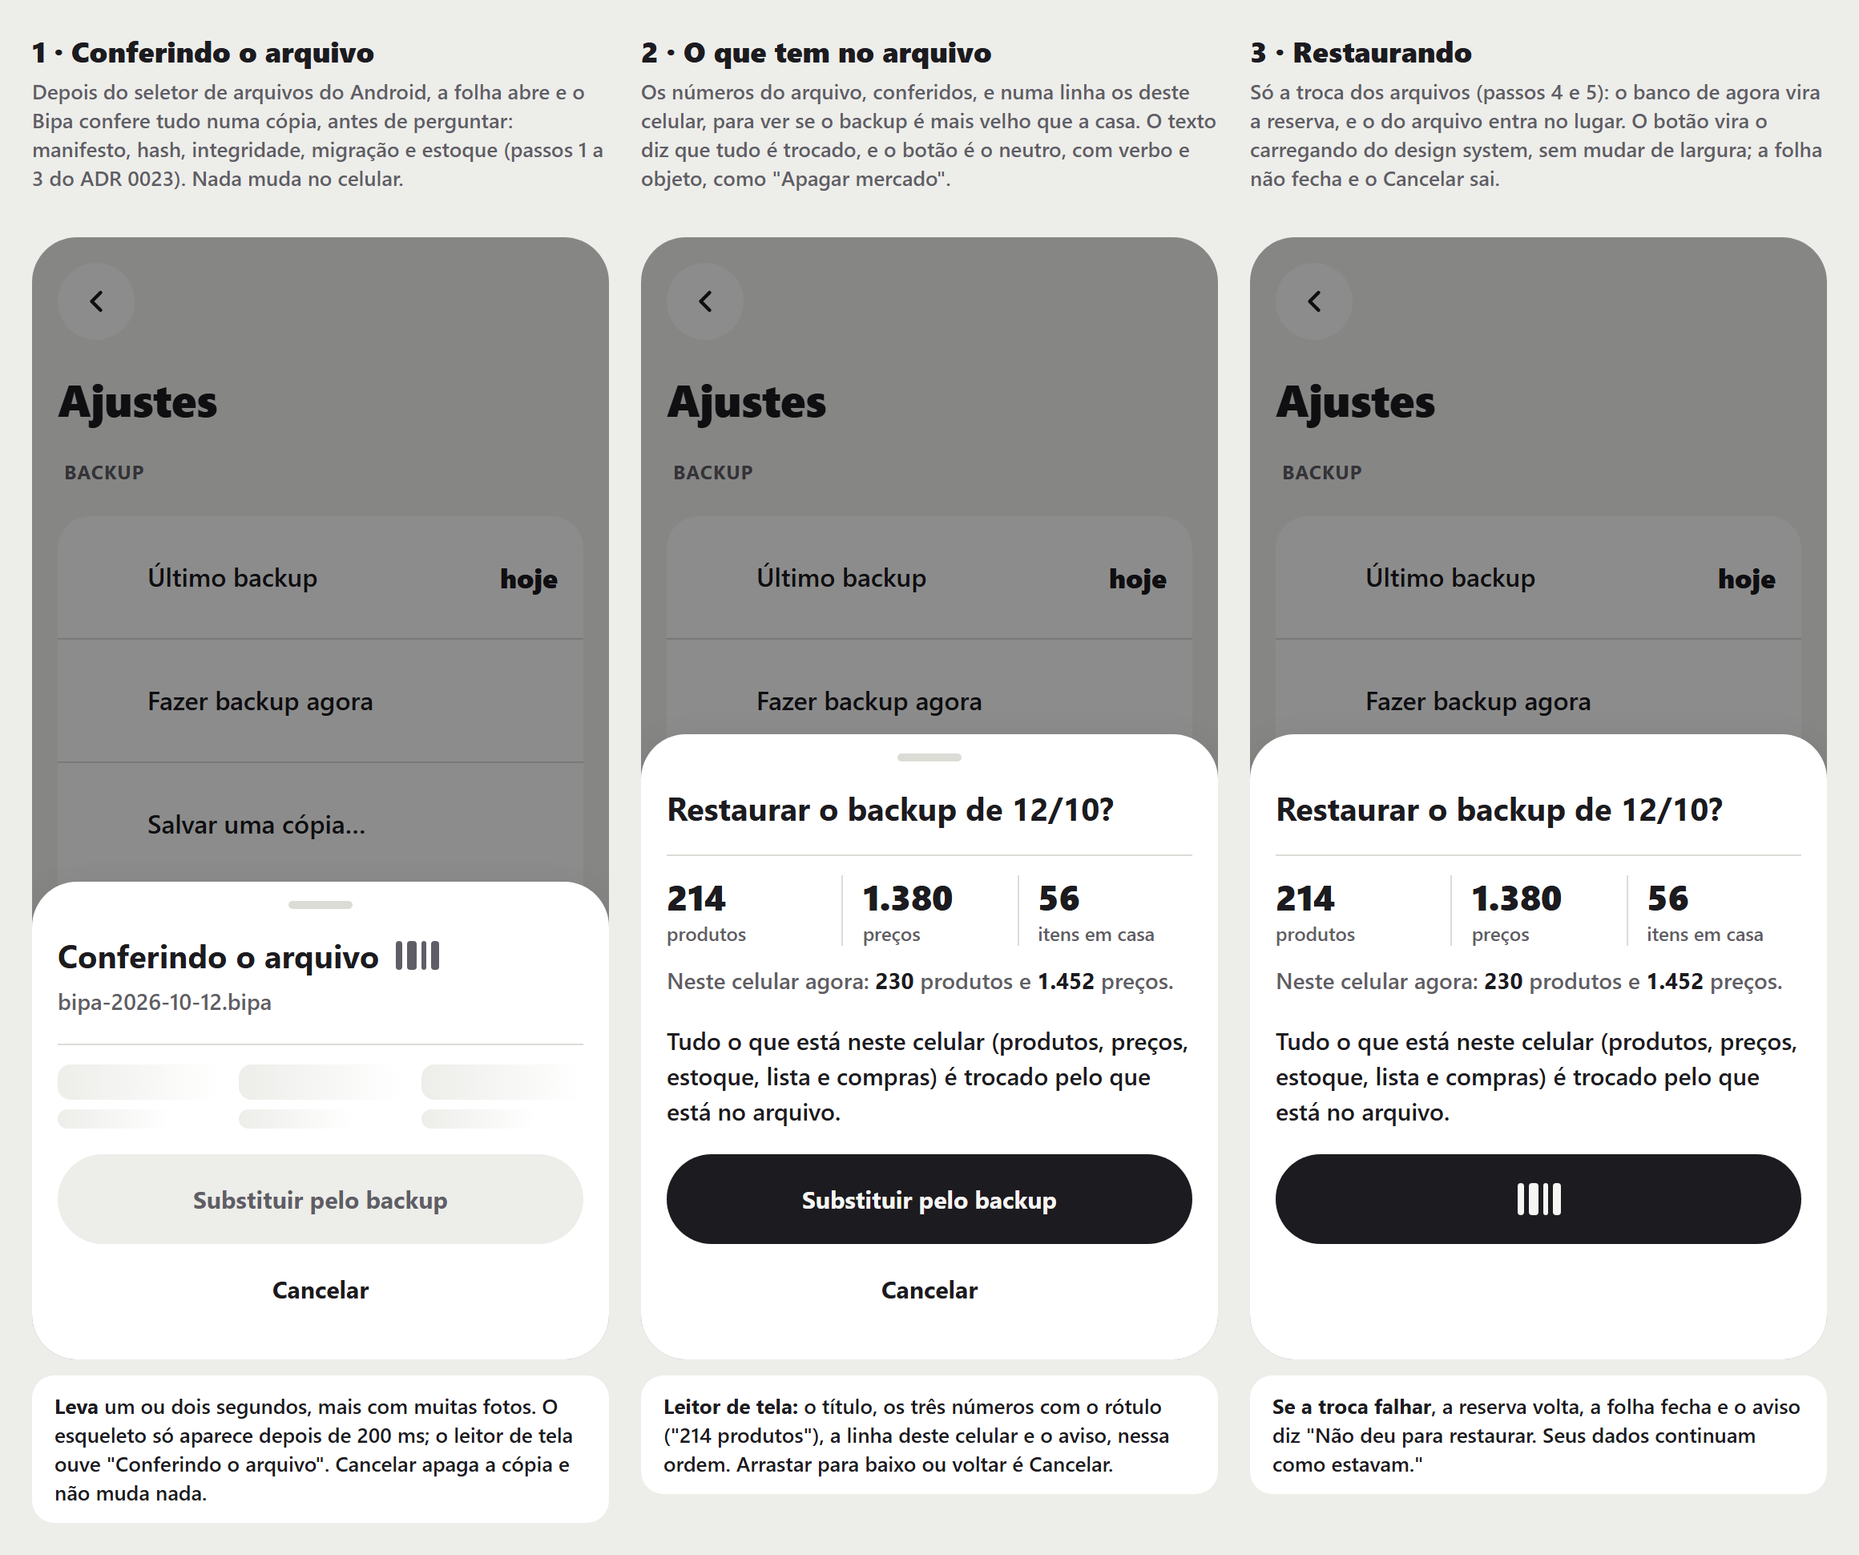
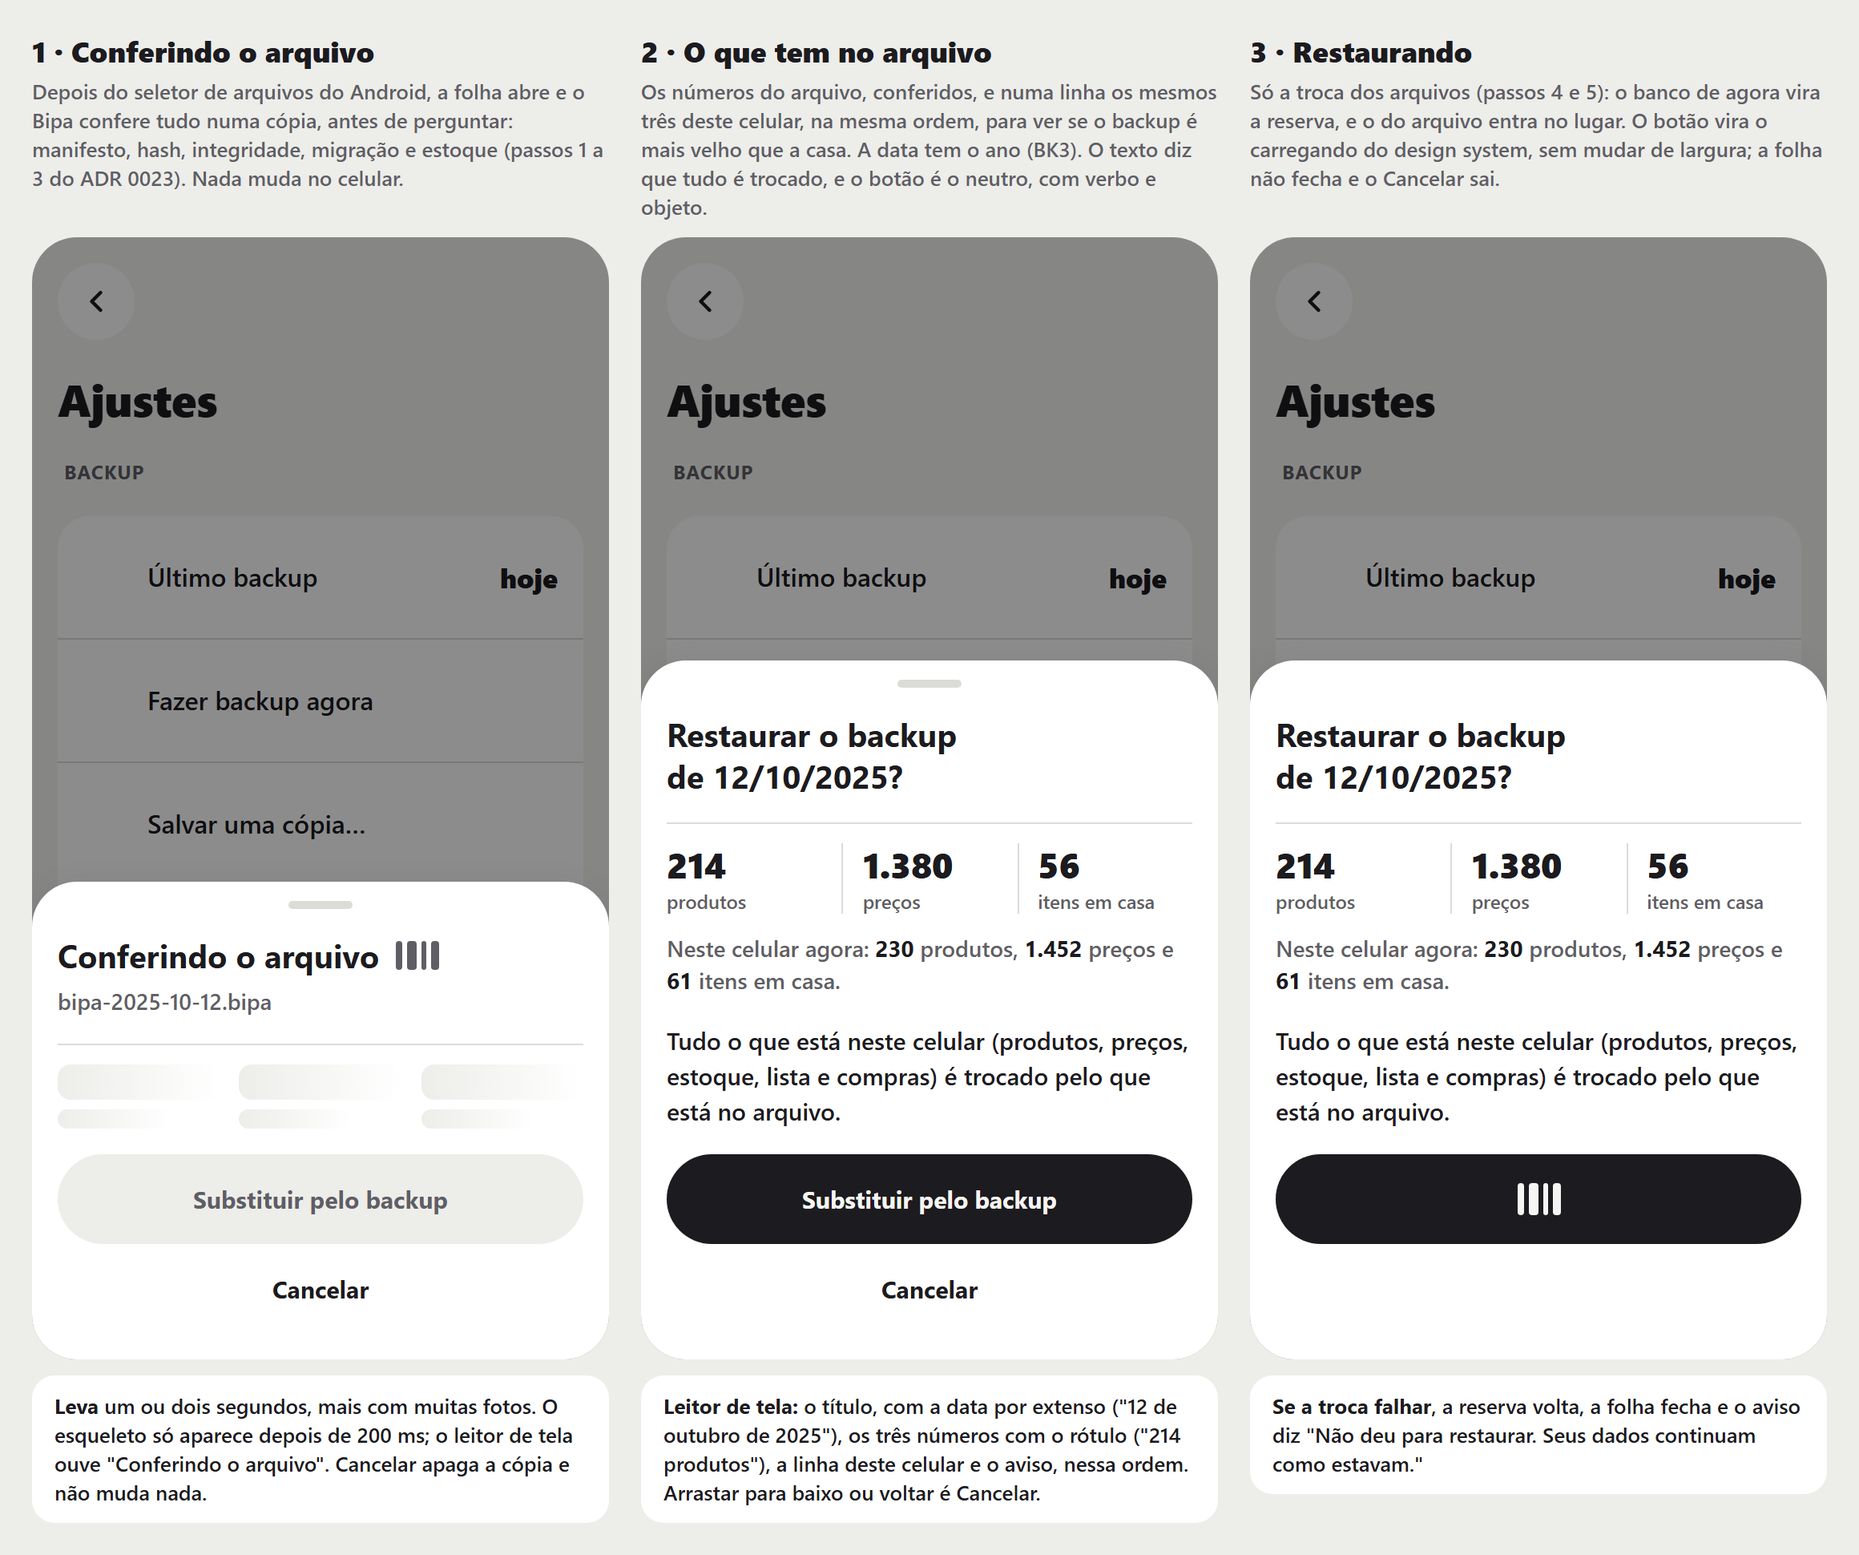
docs(design): põe os três números dos dois lados e o ano na confirmação da restauração
O quadro RestaurarBackup compara produtos, preços e itens em casa do
arquivo com os mesmos três deste celular, e a data do título tem o ano
(BK3 da análise de UX do lote 12). Aguarda revisão.

Changed region(s): [[0.3414, 0.4021, 0.9931, 0.6495], [0.3414, 0.8969, 0.6517, 0.9897], [0.3414, 0.0309, 0.6517, 0.1546]]

diff --git a/docs/design/prototipo/fonte/RestaurarBackup.dc.html b/docs/design/prototipo/fonte/RestaurarBackup.dc.html
@@ -74,7 +74,7 @@ a{color:#1C1B22}a:hover{color:#B00E28}
       <section class="sheet" role="dialog" aria-labelledby="s1" aria-busy="true">
         <span class="handle" aria-hidden="true"></span>
         <h2 id="s1">Conferindo o arquivo <span class="bipa-loader" aria-hidden="true"><i></i><i></i><i></i><i></i></span></h2>
-        <p class="file">bipa-2026-10-12.bipa</p>
+        <p class="file">bipa-2025-10-12.bipa</p>
         <div class="sk" aria-hidden="true"><div><i class="bipa-skeleton"></i><i class="bipa-skeleton"></i></div><div><i class="bipa-skeleton"></i><i class="bipa-skeleton"></i></div><div><i class="bipa-skeleton"></i><i class="bipa-skeleton"></i></div></div>
         <div class="actions">
           <button class="bipa-btn bipa-btn--neutral" type="button" disabled><span>Substituir pelo backup</span></button>
@@ -87,7 +87,7 @@ a{color:#1C1B22}a:hover{color:#B00E28}
 
   <!-- 2 · Confirmar -->
   <section class="col" aria-labelledby="t-2">
-    <header class="note"><h2 id="t-2">2 · O que tem no arquivo</h2><p>Os números do arquivo, conferidos, e numa linha os deste celular, para ver se o backup é mais velho que a casa. O texto diz que tudo é trocado, e o botão é o neutro, com verbo e objeto, como "Apagar mercado".</p></header>
+    <header class="note"><h2 id="t-2">2 · O que tem no arquivo</h2><p>Os números do arquivo, conferidos, e numa linha os mesmos três deste celular, na mesma ordem, para ver se o backup é mais velho que a casa. A data tem o ano (BK3). O texto diz que tudo é trocado, e o botão é o neutro, com verbo e objeto.</p></header>
     <div class="phone">
       <div class="behind" aria-hidden="true">
         <span class="round-btn"><svg width="22" height="22" viewBox="0 0 24 24" fill="none" stroke="currentColor" stroke-width="2.4" stroke-linecap="round" stroke-linejoin="round"><path d="M15 6l-6 6 6 6"/></svg></span>
@@ -98,13 +98,13 @@ a{color:#1C1B22}a:hover{color:#B00E28}
       <div class="dim"></div>
       <section class="sheet" role="dialog" aria-labelledby="s2" aria-describedby="w2">
         <span class="handle" aria-hidden="true"></span>
-        <h2 id="s2">Restaurar o backup de 12/10?</h2>
+        <h2 id="s2">Restaurar o backup de 12/10/2025?</h2>
         <div class="bipa-facts">
           <div class="bipa-fact"><span class="bipa-fact__value">214</span><span class="bipa-fact__label">produtos</span></div>
           <div class="bipa-fact"><span class="bipa-fact__value">1.380</span><span class="bipa-fact__label">preços</span></div>
           <div class="bipa-fact"><span class="bipa-fact__value">56</span><span class="bipa-fact__label">itens em casa</span></div>
         </div>
-        <p class="here">Neste celular agora: <b>230</b> produtos e <b>1.452</b> preços.</p>
+        <p class="here">Neste celular agora: <b>230</b> produtos, <b>1.452</b> preços e <b>61</b> itens em casa.</p>
         <p class="warn" id="w2">Tudo o que está neste celular (produtos, preços, estoque, lista e compras) é trocado pelo que está no arquivo.</p>
         <div class="actions">
           <a class="bipa-btn bipa-btn--neutral" href="RestaurarBackupResultado.dc.html"><span>Substituir pelo backup</span></a>
@@ -112,7 +112,7 @@ a{color:#1C1B22}a:hover{color:#B00E28}
         </div>
       </section>
     </div>
-    <p class="measure"><b>Leitor de tela:</b> o título, os três números com o rótulo ("214 produtos"), a linha deste celular e o aviso, nessa ordem. Arrastar para baixo ou voltar é Cancelar.</p>
+    <p class="measure"><b>Leitor de tela:</b> o título, com a data por extenso ("12 de outubro de 2025"), os três números com o rótulo ("214 produtos"), a linha deste celular e o aviso, nessa ordem. Arrastar para baixo ou voltar é Cancelar.</p>
   </section>
 
   <!-- 3 · Restaurando -->
@@ -128,13 +128,13 @@ a{color:#1C1B22}a:hover{color:#B00E28}
       <div class="dim"></div>
       <section class="sheet" role="dialog" aria-labelledby="s3" aria-busy="true">
         <span class="handle" aria-hidden="true" style="visibility:hidden"></span>
-        <h2 id="s3">Restaurar o backup de 12/10?</h2>
+        <h2 id="s3">Restaurar o backup de 12/10/2025?</h2>
         <div class="bipa-facts">
           <div class="bipa-fact"><span class="bipa-fact__value">214</span><span class="bipa-fact__label">produtos</span></div>
           <div class="bipa-fact"><span class="bipa-fact__value">1.380</span><span class="bipa-fact__label">preços</span></div>
           <div class="bipa-fact"><span class="bipa-fact__value">56</span><span class="bipa-fact__label">itens em casa</span></div>
         </div>
-        <p class="here">Neste celular agora: <b>230</b> produtos e <b>1.452</b> preços.</p>
+        <p class="here">Neste celular agora: <b>230</b> produtos, <b>1.452</b> preços e <b>61</b> itens em casa.</p>
         <p class="warn">Tudo o que está neste celular (produtos, preços, estoque, lista e compras) é trocado pelo que está no arquivo.</p>
         <div class="actions">
           <button class="bipa-btn bipa-btn--neutral" type="button" aria-busy="true" aria-label="Restaurando"><span class="bipa-loader" aria-hidden="true"><i></i><i></i><i></i><i></i></span></button>

diff --git a/docs/design/prototipo/README.md b/docs/design/prototipo/README.md
@@ -45,7 +45,7 @@ Cada tela tem uma imagem (390 px de largura, em 2x) e o HTML de origem em [`font
 | **Início, pergunta do relatório de falhas** (ADR 0025): uma vez, depois da primeira compra terminada, um cartão neutro no lugar do carrossel de insights: "Se o Bipa travar, mandar um relatório?", uma frase com o que vai e o que fica, e "Mandar" e "Não mandar" do mesmo tamanho. O × fecha e conta como "não". A engrenagem à direita do título abre os Ajustes. | [InicioRelatorioFalhas.png](telas/InicioRelatorioFalhas.png) | Feita em 28/10/2026 (`CrashReportingAskCard`, ADR 0025). Diferenças do quadro: (1) a posição: o quadro foi desenhado sem "Acabando" e põe o cartão no lugar do carrossel; no app ele fica depois de "Acabando" e antes de "Em casa", para não empurrar a informação que o Início existe para dar (H18); (2) o texto: "Vão o erro e dados do celular, como modelo e versão. Seus produtos, preços e lugares ficam aqui. Dá para mudar em Ajustes.", sem o "só", e um link "O que vai" que abre os Ajustes (H17). Só aparece em build com DSN, com o consentimento ainda não respondido e na abertura do app seguinte à primeira compra terminada (alguma compra com fim registrado antes do início desta abertura), não na mesma em que ela terminou. O × conta como "não". O protótipo publicado no claude.ai precisa receber o quadro, com o cartão depois de "Acabando" e o texto novo |
 | **Ajustes** (ADR 0025): a tela mínima, aberta pela engrenagem do Início. "Privacidade" com o interruptor "Relatório de falhas" (o único lugar para mudar de ideia, nos dois sentidos) e, embaixo, o que vai e o que nunca vai; "Sobre o Bipa" com a versão. | [Ajustes.png](telas/Ajustes.png) | Feita em 28/10/2026 (`SettingsPage`, rota `/ajustes`, ADR 0025), aberta pela engrenagem do Início. Em build sem DSN, a seção "Privacidade" some e fica só a versão. O protótipo publicado no claude.ai precisa receber o quadro |
 | **Backup em Ajustes** (ADR 0023, seção 5): o grupo "Backup" vem primeiro em Ajustes. A primeira linha só informa o último backup, com o dia grande e a hora embaixo ("hoje" e "08:40"; "ontem", "12/10"; sem nenhum, "nenhum ainda"), e diz em uma frase que ele é automático, uma vez por dia, e vai para um celular novo pelo backup do Google. Embaixo, três linhas que são botões, com ícone e texto: **Fazer backup agora** (o ícone vira o indicador de carregamento do design system e, ao terminar, o valor passa a "agora", anunciado ao leitor de tela, sem aviso), **Salvar uma cópia…** (grava um backup e abre o seletor de arquivos do Android para salvar `bipa-2026-10-29.bipa` onde a pessoa quiser; salvo, o aviso "Cópia salva") e **Restaurar de um arquivo…** (o fluxo do quadro seguinte). O "…" diz que a ação abre outra tela do Android. Nenhuma cor de destaque. | [AjustesBackup.png](telas/AjustesBackup.png) | Feita em 29/10/2026 (`BackupSettingsCard`, no topo da `SettingsPage`). Decisões do mantenedor em 29/10: o grupo se chama "Backup", sem cor de destaque, e, quando o último backup passa dos 25 MB que o backup do Google leva, a frase dá lugar ao tamanho ("Com 31 MB, passou dos 25 MB…") e sugere "Salvar uma cópia…". O "Salvar como" e o "Abrir" são os do Android (Storage Access Framework), por um canal pequeno no `MainActivity`. O protótipo publicado no claude.ai precisa receber o quadro, com o aviso acima de 25 MB |
-| **Restaurar um backup** (ADR 0023, seção 5): "Restaurar de um arquivo…" abre o seletor de arquivos do Android, e a folha abre já **conferindo o arquivo** (o título com o indicador de carregamento, o nome do arquivo e o esqueleto dos números), fazendo numa cópia os passos 1 a 3 do ADR. Conferido, a folha mostra **o que tem no arquivo**: "Restaurar o backup de 12/10?", os números (produtos, preços, itens em casa), numa linha os deste celular e, com texto, que tudo o que está aqui é trocado. O botão é o neutro, "Substituir pelo backup", com "Cancelar" só texto. Tocar **restaura** (passos 4 e 5): o botão vira o indicador de carregamento, a folha não fecha e o Cancelar sai. O quadro tem 1160 px de largura, com os três momentos. | [RestaurarBackup.png](telas/RestaurarBackup.png) | Feita em 29/10/2026 (`RestoreSheet`, aberta por "Restaurar de um arquivo…"). Decisões do mantenedor em 29/10: os números deste celular numa linha da confirmação e o botão neutro "Substituir pelo backup". Diferença do quadro: quando a soma dos lotes de um item não bate com a quantidade em casa, a restauração acerta a quantidade pelos lotes em vez de recusar o arquivo (ADR 0023, seção 5), e a folha diz quantos itens mudaram ("2 itens tiveram a quantidade acertada pela soma das compras."), embaixo do aviso. Com letra a 150% ou mais, os três números ficam um embaixo do outro. O protótipo publicado no claude.ai precisa receber o quadro, com a linha da quantidade acertada |
+| **Restaurar um backup** (ADR 0023, seção 5): "Restaurar de um arquivo…" abre o seletor de arquivos do Android, e a folha abre já **conferindo o arquivo** (o título com o indicador de carregamento, o nome do arquivo e o esqueleto dos números), fazendo numa cópia os passos 1 a 3 do ADR. Conferido, a folha mostra **o que tem no arquivo**: "Restaurar o backup de 12/10/2025?", com o ano, os números (produtos, preços, itens em casa), numa linha os mesmos três deste celular ("Neste celular agora: 230 produtos, 1.452 preços e 61 itens em casa.") e, com texto, que tudo o que está aqui é trocado. O botão é o neutro, "Substituir pelo backup", com "Cancelar" só texto. Tocar **restaura** (passos 4 e 5): o botão vira o indicador de carregamento, a folha não fecha e o Cancelar sai. O quadro tem 1160 px de largura, com os três momentos. | [RestaurarBackup.png](telas/RestaurarBackup.png) | Feita em 29/10/2026 (`RestoreSheet`, aberta por "Restaurar de um arquivo…"). Decisões do mantenedor em 29/10: os números deste celular numa linha da confirmação e o botão neutro "Substituir pelo backup". Diferença do quadro: quando a soma dos lotes de um item não bate com a quantidade em casa, a restauração acerta a quantidade pelos lotes em vez de recusar o arquivo (ADR 0023, seção 5), e a folha diz quantos itens mudaram ("2 itens tiveram a quantidade acertada pela soma das compras."), embaixo do aviso. Com letra a 150% ou mais, os três números ficam um embaixo do outro. O protótipo publicado no claude.ai precisa receber o quadro, com a linha da quantidade acertada. **Revisto em 29/10/2026 pelo [BK3](../../ux/analise-ux-2026-10-29-lote12.md) (aguarda revisão):** a linha deste celular passa a ter os mesmos três números do arquivo, na mesma ordem (o app mostra só produtos e preços, em `_CurrentLine`), e a data do título tem o ano (o app usa `dd/MM`), para um backup de um ano atrás não parecer de duas semanas. O protótipo publicado precisa da mesma mudança |
 | **Restaurar um backup, resultado**: **pronto**, a folha fecha em Ajustes e o aviso "Backup de 12/10 restaurado" traz o Desfazer por 10 s, que volta o banco de antes (a reserva do passo 4); o último backup não muda até o automático seguinte. **Arquivo que não abre** (não é `.bipa`, sem manifesto, hash, integridade, migração ou estoque que não batem): "Não deu para abrir este backup", "O arquivo não é um backup do Bipa ou está incompleto. Nada mudou neste celular.", com "Escolher outro arquivo" e "Fechar". **Backup de um Bipa mais novo** (esquema maior que o do app): "Este backup é de um Bipa mais novo", "Atualize o Bipa neste celular e escolha o arquivo de novo. Nada mudou aqui.", com "Atualizar o Bipa" (a página do app na loja) e "Fechar". Os dois erros entram no lugar da confirmação, com o ícone em `alert-text`. Fora do quadro: se a troca falhar, a reserva volta, a folha fecha e o aviso diz "Não deu para restaurar. Seus dados continuam como estavam."; sem espaço para a cópia, "Falta espaço no celular para conferir o backup" no lugar da confirmação. O quadro tem 1160 px de largura. | [RestaurarBackupResultado.png](telas/RestaurarBackupResultado.png) | Feita em 29/10/2026 (`RestoreSheet` e `applyRestoreAndNotify`): o aviso traz o Desfazer por 10 s (`BipaToastDuration.long`), que volta a reserva, e restaurar ou desfazer limpa o cache de imagens, para as fotos novas aparecerem. As duas mensagens de erro terminam em "Nada mudou neste celular." (o quadro dizia "Nada mudou aqui." na do Bipa mais novo). Diferenças: o ícone do arquivo que não abre é o de imagem quebrada do Material, que não tem o arquivo com ×; e a falta de espaço ainda não tem mensagem própria, cai em "Não deu para abrir este backup". O protótipo publicado no claude.ai precisa receber o quadro |
 | **Início no celular novo, backup encontrado** (ADR 0023, B1): o Android devolve o `backup/ultimo.bipa` ao instalar o app, antes de ele abrir, e não avisa. Na abertura, com o banco sem nada da pessoa e o arquivo presente, o Bipa lê o manifesto e o Início mostra, no lugar do convite da casa vazia, o cartão de pergunta do InsightCard: "Backup do Google", "Restaurar o backup de 12/10?", os números do arquivo e "Restaurar" (neutro) e "Começar do zero" (secundário), da mesma largura. Nada é restaurado sozinho. **Restaurar** confere e troca (passos 1 a 5 do ADR) com o botão carregando, sem a folha de confirmação, porque a casa vazia não perde nada; pronto, o Início se enche e o aviso diz "Backup de 12/10 restaurado", sem Desfazer. Um arquivo que não abre troca o cartão pela mensagem da folha de erro, com "Começar do zero". **Começar do zero** some com o cartão e mostra o aviso "Backup de 12/10 deixado de lado" com Desfazer por 10 s. Sem ×: enquanto a pessoa não responde, o cartão fica e o backup automático não grava por cima do arquivo; se ela bipar antes de responder, "Restaurar" passa pela folha de confirmação de [RestaurarBackup](telas/RestaurarBackup.png), porque já há o que perder. | [InicioBackupEncontrado.png](telas/InicioBackupEncontrado.png) | Feita em 29/10/2026 (`RestoreOfferCard`, no Início). Decisão do mantenedor em 29/10: o cartão "Backup encontrado", com "Restaurar" no neutro e "Começar do zero" no secundário. "Começar do zero" tira o cartão na hora, e o arquivo só é adotado quando o aviso sai sem o Desfazer; o Desfazer traz o cartão de volta. Depois, o arquivo continua restaurável pelos Ajustes até o próximo backup diário. Um arquivo de um Bipa mais novo mostra "Atualizar o Bipa" ao lado de "Começar do zero". Com letra a 150% ou mais, os botões e os números ficam um embaixo do outro. O protótipo publicado no claude.ai precisa receber o quadro |
 
